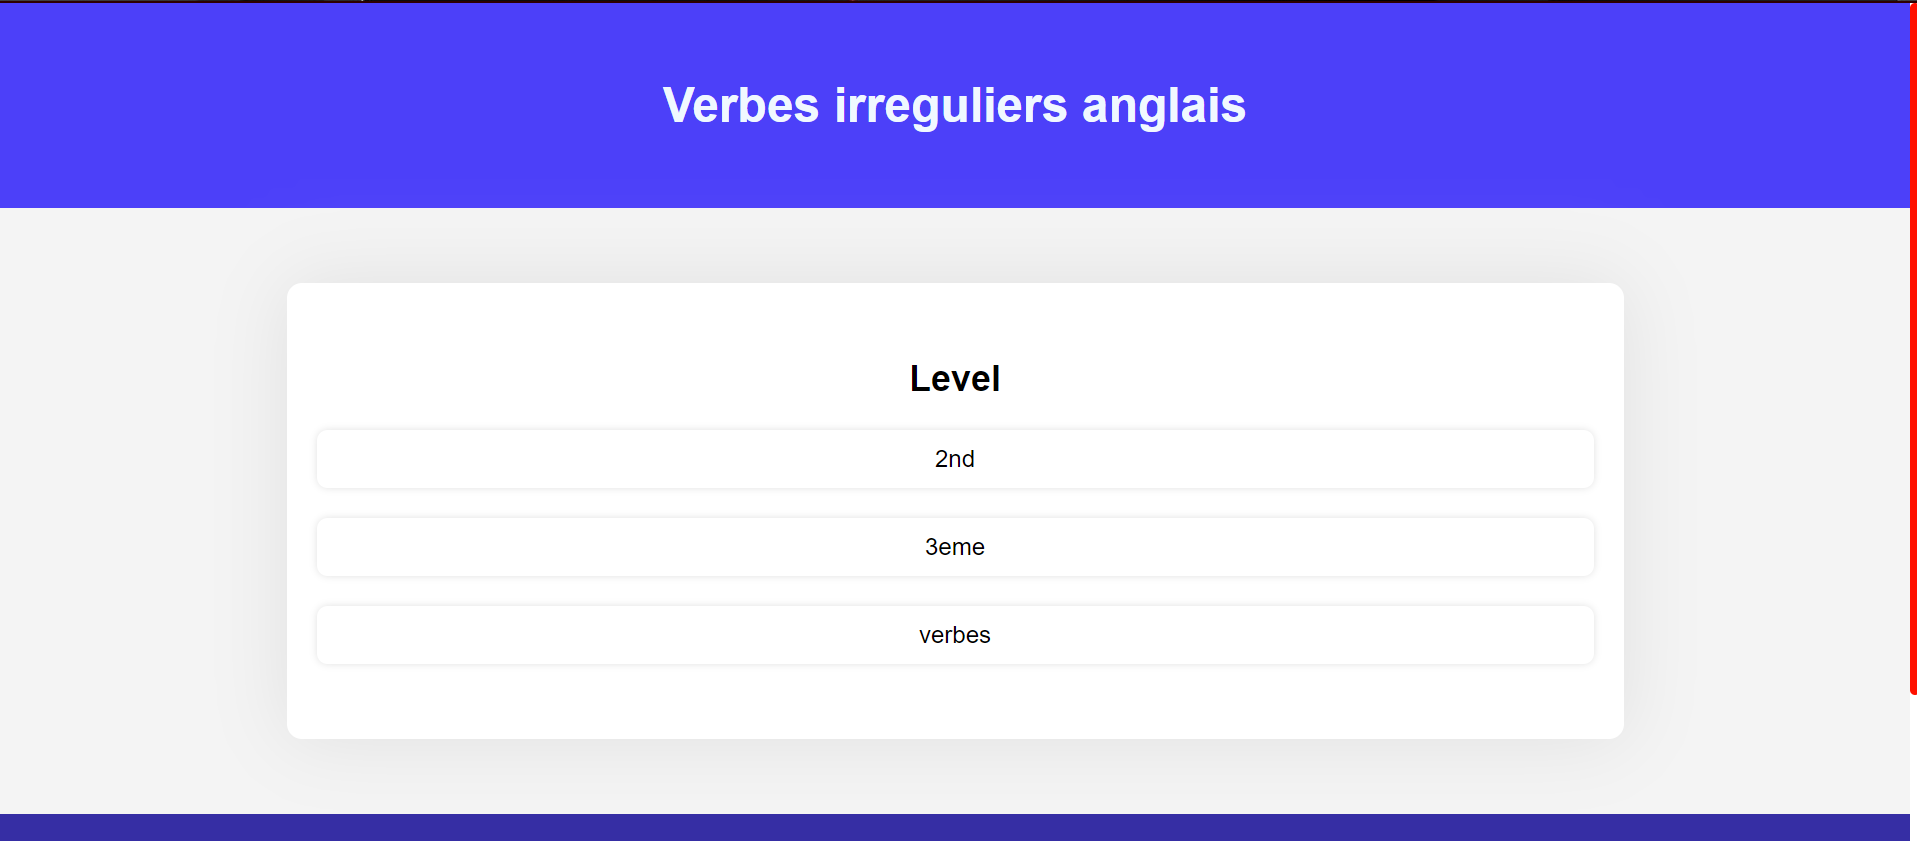
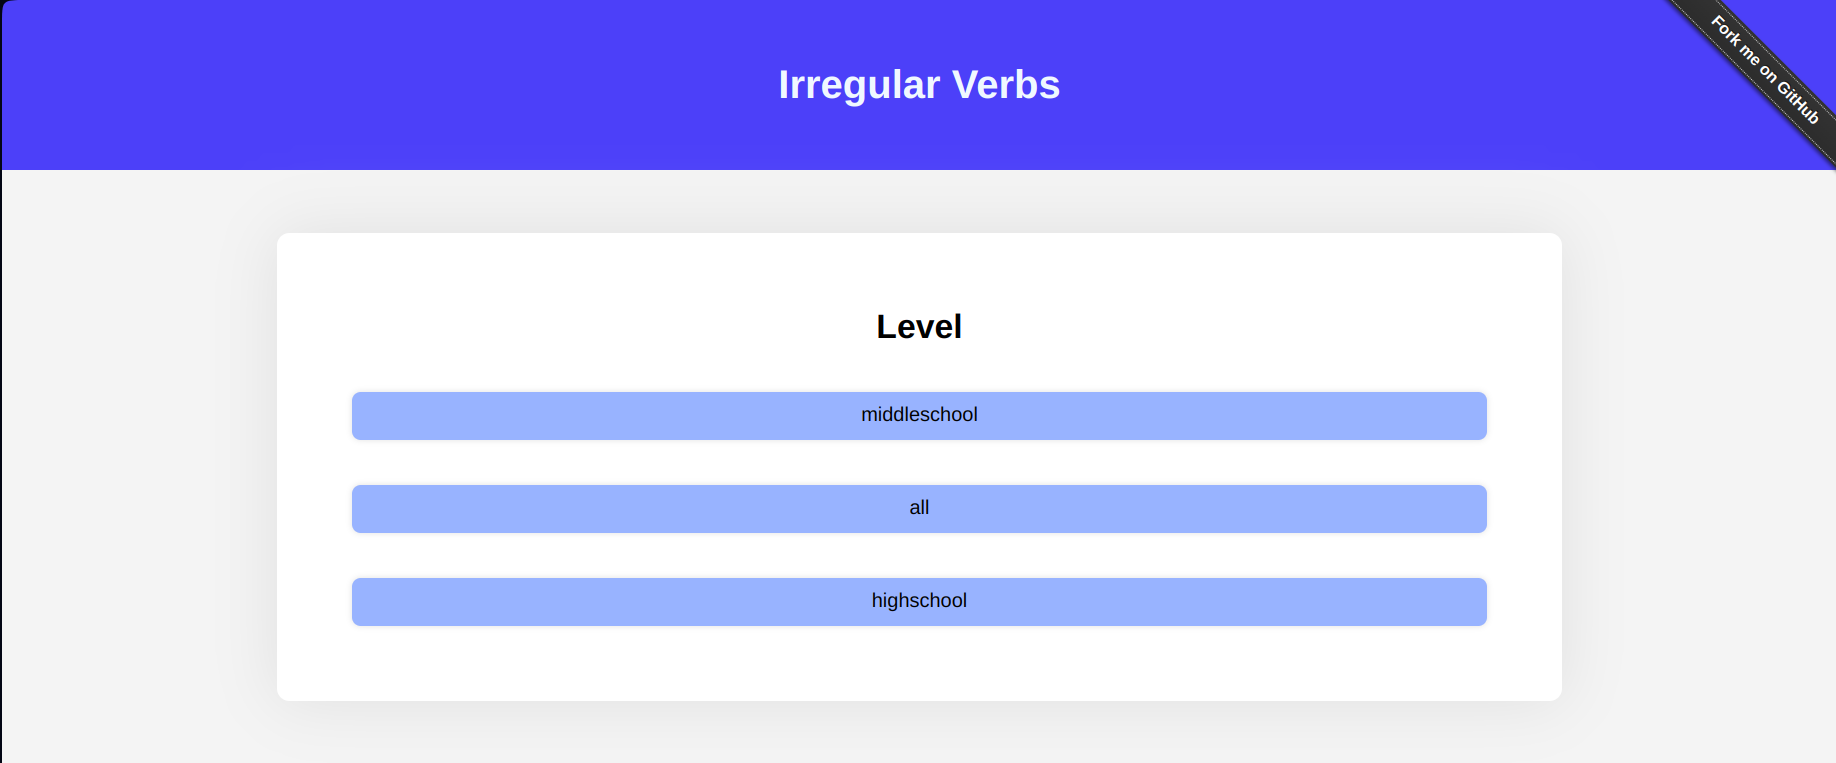
Update

diff --git a/static/index.js b/static/index.js
@@ -222,11 +222,11 @@ function showResult() {
 
     // afficher le score
     let scoreH2 = document.getElementById("score-h2");
-    scoreH2.innerHTML = "Votre score: " + score + " / " + verbes.length*3;
+    scoreH2.innerHTML = "Score: " + score + " / " + verbes.length*3;
 
     // afficher le temps
     let timeP = document.getElementById("time-p");
-    timeP.innerHTML = "Votre temps: " + FormatTime(EndTime - starttime);
+    timeP.innerHTML = "Time: " + FormatTime(EndTime - starttime);
 
 }
 
